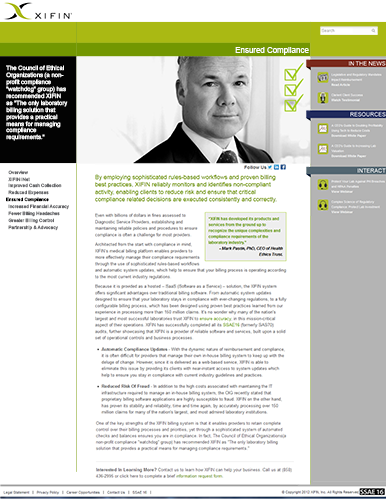
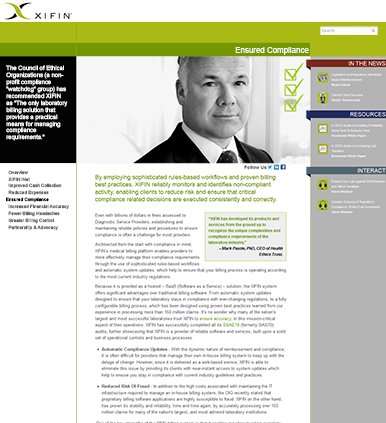
graphic resized

diff --git a/week2challenge/index.html b/week2challenge/index.html
@@ -99,7 +99,7 @@
                             <p style="text-align: left;">My position at XIFIN involved marketing processes (Salesforce, Marketo, Google Analytics), support, SEO, and Drupal administration and training. I saw the site through three versions. Though we eventually used a <a href="https://www.xifin.com">pre-built theme for the current site at www.xifin.com</a>, these were some of the ideas I put forward for the content page layouts <strong>(old school style)</strong>.</p>
                             <img src="./Assets/images/xifin.jpg" class="wide" alt="XIFIN thumbnail" />
                             <h5>CONTENT page layouts</h5>
-                            <img class="narrow" src="./Assets/images/xifin_alt_layout4.png" alt="XIFIN content page alternate 1" width="386" height="500" /> <img src="./Assets/images/xifin_alt_layout-icc2.png" alt="XIFIN content page alternate 3" width="387" height="423" />
+                            <img src="./Assets/images/xifin_alt_layout4.png" alt="XIFIN content page alternate 1" width="387" height="423" /> <img src="./Assets/images/xifin_alt_layout-icc2.png" alt="XIFIN content page alternate 3" width="387" height="423" />
                             <h5>Various XIFIN Graphics</h5>
                             <img src="./Assets/images/re-infogrph.png" alt="XIFIN Production Graphic" width="357" height="221" /><img src="./Assets/images/xifin_itcosts.png" alt="XIFIN Production Graphic" width="357" height="321" /><img src="./Assets/images/gbc-infogrph.png" alt="XIFIN Production Graphic" width="357" height="360" /><img src="./Assets/images/icc-infogrph.png" alt="XIFIN Production Graphic" width="357" height="340" /><img src="./Assets/images/ifa-infogrph.png" alt="XIFIN Production Graphic" width="357" height="148" /><img src="./Assets/images/pa-infogrph.png" alt="XIFIN Production Graphic" width="357" height="221" /><br />
                             <h5>XIFIN Customer Christmas Card</h5>

diff --git a/week2challenge/Assets/styles/styles.css b/week2challenge/Assets/styles/styles.css
@@ -150,8 +150,8 @@ header {
     margin: -20px auto 30px;
     padding: 5px 7px 5px 7px;
     text-align: center;
-    /*display: none;*/
-    display: flex;
+    display: none;
+    /*display: flex;*/
     flex-wrap: wrap;
     justify-content: center;
 }
